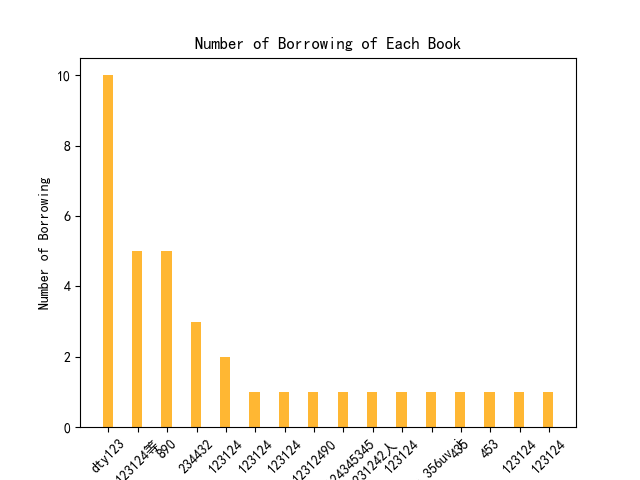
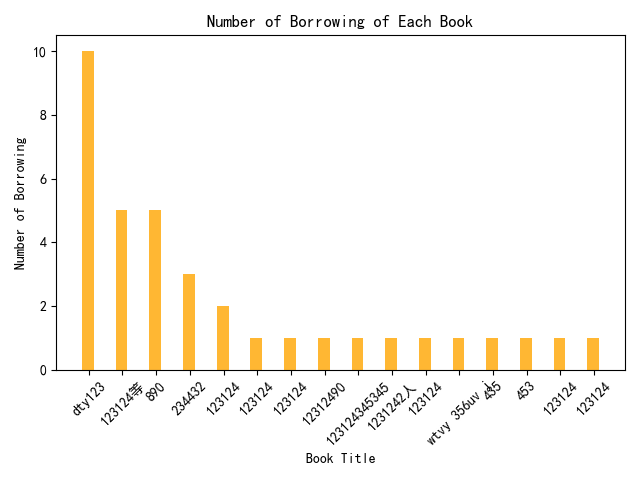
srq

diff --git a/website/finals/database.py b/website/finals/database.py
@@ -259,6 +259,7 @@ async def get_book_info():
     plt.title('Number of Borrowing of Each Book')
     plt.xticks(index + bar_width / 2 - 0.15, categories)
     plt.xticks(rotation=45)  
+    plt.tight_layout()
     #plt.show() # type: ignore
     plt.savefig('bar_chart.png')
     #headers = {'Content-Disposition': 'attachment; filename="bar_chart.png"'}

diff --git a/website/rubbish/tea.py b/website/rubbish/tea.py
@@ -1,0 +1,13 @@
+import matplotlib.pyplot as plt
+# 示例数据
+x = [1, 2, 3, 4, 5]
+y = [10, 20, 25, 30, 35]
+# 绘图
+plt.plot(x, y)
+plt.xlabel('x轴标签')  # 修正引号
+plt.ylabel('Y轴标签')
+plt.title('图表标题')  # 修正引号
+# 手动调整边距
+plt.subplots_adjust(left=0.1, right=0.9, top=0.9, bottom=0.2)
+
+plt.show()
